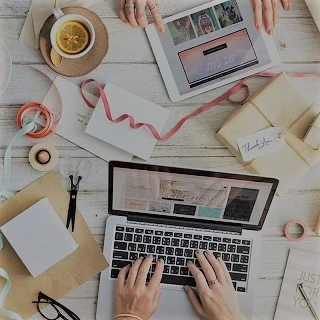
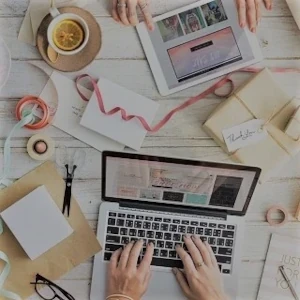
changing images scale

diff --git a/index.html b/index.html
@@ -151,7 +151,11 @@
 		</div>
 		<div class="row tight-width-whitespace portfolio-row">
 			<div class="col-sm-6">
-				<a href="#" data-lightbox="img/1.webp" data-gallery-id="gallery-1" data-caption="Refonte d'un site web pour un journal local" data-frame="snapshot-lb"><img src="img/1.webp" alt="paris web design logo agence web meilleure agence et refonte site web journal" class="img-responsive portfolio-thumb" /></a>
+
+				<a href="#" data-lightbox="img/1.webp" data-gallery-id="gallery-1" data-caption="Refonte d'un site web pour un journal local" data-frame="snapshot-lb">
+					<img src="img/1.webp" alt="paris web design logo agence web meilleure agence et refonte site web journal" class="img-responsive portfolio-thumb" />
+				</a>
+
 				<h3 class="mg-md text-center">
 					Refonte d'un site web pour un journal local
 				</h3>
@@ -161,7 +165,11 @@
 			</div>
 			
 			<div class="col-sm-6">
-				<a href="#" data-lightbox="img/2.webp" data-gallery-id="gallery-1" data-caption="Création d'un site web pour photographes" data-frame="snapshot-lb"><img src="img/2.webp" class="img-responsive portfolio-thumb" alt="paris web design logo agence web meilleure agence, Création d'un site web pour photographes" /></a>
+
+				<a href="#" data-lightbox="img/2.webp" data-gallery-id="gallery-1" data-caption="Création d'un site web pour photographes" data-frame="snapshot-lb">
+					<img src="img/2.webp" class="img-responsive portfolio-thumb" alt="paris web design logo agence web meilleure agence, Création d'un site web pour photographes" />
+				</a>
+
 				<h3 class="mg-md text-center">
 					Création d'un site web pour photographes
 				</h3>
@@ -172,7 +180,11 @@
 		</div>
 		<div class="row tight-width-whitespace portfolio-row">
 			<div class="col-sm-6">
-				<a href="#" data-lightbox="img/3.webp" data-gallery-id="gallery-1" data-caption="Création d'un site internet pour un voyageur" data-frame="snapshot-lb"><img src="img/3.webp" class="img-responsive portfolio-thumb" alt="paris web design logo agence web meilleure agence, Création d'un site web pour voyageur"/></a>
+
+				<a href="#" data-lightbox="img/3.webp" data-gallery-id="gallery-1" data-caption="Création d'un site internet pour un voyageur" data-frame="snapshot-lb">
+					<img src="img/3.webp" class="img-responsive portfolio-thumb" alt="paris web design logo agence web meilleure agence, Création d'un site web pour voyageur"/>
+				</a>
+
 				<h3 class="mg-md text-center">
 					Création d'un site internet pour un voyageur
 				</h3>
@@ -182,7 +194,11 @@
 			</div>
 			
 			<div class="col-sm-6">
-				<a href="#" data-lightbox="img/4.webp" data-gallery-id="gallery-1" data-caption="Conception d'un site pour une agence de mariage" data-frame="snapshot-lb"><img src="img/4.webp" class="img-responsive portfolio-thumb" alt="paris web design logo agence web meilleure agence, Création d'un site web pour agence de mariage" /></a>
+				
+				<a href="#" data-lightbox="img/4.webp" data-gallery-id="gallery-1" data-caption="Conception d'un site pour une agence de mariage" data-frame="snapshot-lb">
+					<img src="img/4.webp" class="img-responsive portfolio-thumb" alt="paris web design logo agence web meilleure agence, Création d'un site web pour agence de mariage" />
+				</a>
+
 				<h3 class="mg-md text-center">
 					Conception d'un site pour une agence de mariage
 				</h3>

diff --git a/style.css b/style.css
@@ -534,16 +534,16 @@ a[data-lightbox] {
     position: relative;
     display: block;
     text-align: center;
-    width: 55%;
-    justify-content: center;
 }
 a .img-responsive
 {
-    display: flex;
+    display: block;
+    margin-left: auto;
+    margin-right: auto;
     justify-content: center;
     text-align: center;
     align-items: center;
-    margin-left: 40%;
+    
 }
 a[data-lightbox]:hover::before {
     content: "+";
